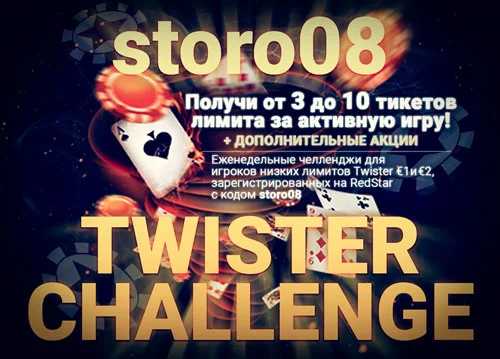
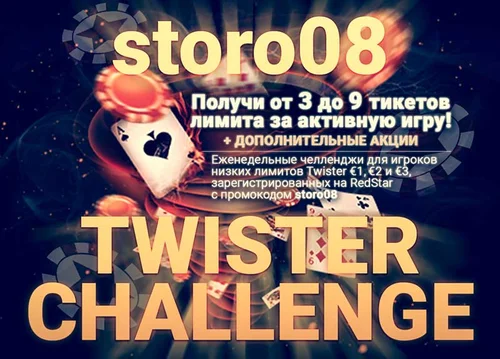
feat: add responsive for header

diff --git a/index.html b/index.html
@@ -17,6 +17,16 @@
     <header>
       <h1 class="logo">RedStar + storo08</h1>
       <div class="header-promo">
+        <p class="header-promo-description">
+          <a
+            class="link"
+            href="https://c.rsppartners.com/clickthrgh?btag=a_9631b_75l_9"
+          >
+            Регистрируйтесь на RedStar</a
+          >
+          с промокодом <span class="strong">storo08</span> и получай
+          <span class="strong">рейкбек до 60%</span>!
+        </p>
         <nav class="navigation">
           <ul class="navigation-list">
             <li class="navigation-item">
@@ -37,17 +47,6 @@
             </li>
           </ul>
         </nav>
-        <p class="header-promo-description">
-          <a
-            class="link"
-            href="https://c.rsppartners.com/clickthrgh?btag=a_9631b_75l_9"
-            target="_blank"
-          >
-            Регистрируйтесь на RedStar</a
-          >
-          с промокодом <span class="strong">storo08</span> и получай
-          <span class="strong">рейкбек до 60%</span>!
-        </p>
       </div>
     </header>
 
@@ -61,7 +60,6 @@
               <a
                 class="link"
                 href="https://c.rsppartners.com/clickthrgh?btag=a_9631b_75l_9"
-                target="_blank"
                 >RedStar Poker</a
               >
               — это один из старейших покер-румов,
@@ -139,7 +137,6 @@
             <a
               class="button large secondary"
               href="https://c.rsppartners.com/clickthrgh?btag=a_9631b_75l_9"
-              target="_blank"
               >Регистрация</a
             >
           </div>
@@ -187,11 +184,20 @@
 
           <div class="rakeback-paragraph">
             <p class="paragraph">
-              Зарегистрируйтесь на RedStar c промокодом storo08 и получите <span class="primary">бонус
-              200% на первый депозит</span>, а также дополнительные бонусы:
-              <span class="primary">ежеквартальные релоад-бонусы</span>, участие в акции <span class="primary">storo08 Race Chase</span>,
-              участие в еженедельных гонках <span class="primary">storo08 Twister Races</span>, участие в
-              еженедельных челленджах <span class="primary">storo08 Twister Challenge</span>, участие в
+              <a
+                class="link"
+                href="https://c.rsppartners.com/clickthrgh?btag=a_9631b_75l_9"
+                >Зарегистрируйтесь на RedStar</a
+              >
+              c промокодом <span class="strong">storo08</span> и получите
+              <span class="primary">бонус 200% на первый депозит</span>, а также
+              дополнительные бонусы:
+              <span class="primary">ежеквартальные релоад-бонусы</span>, участие
+              в акции <span class="primary">storo08 Race Chase</span>, участие в
+              еженедельных гонках
+              <span class="primary">storo08 Twister Races</span>, участие в
+              еженедельных челленджах
+              <span class="primary">storo08 Twister Challenge</span>, участие в
               фрироллах <span class="primary">storo08 HU Challenge</span>.
             </p>
             <p class="paragraph">
@@ -205,7 +211,6 @@
             <a
               class="button large light"
               href="https://c.rsppartners.com/clickthrgh?btag=a_9631b_75l_9"
-              target="_blank"
               >Регистрация</a
             >
           </div>
@@ -241,7 +246,7 @@
               Все призы по акции выплачиваются в течение первой недели
               следующего месяца переводом внутри рума на счёт игрока.
             </p>
-            <a class="button" href="https://storo08.ru/chase/"
+            <a class="button primary" href="https://storo08.ru/chase/"
               >Узнать Выплату</a
             >
           </div>
@@ -262,16 +267,16 @@
             </p>
             <p class="paragraph">
               За месяц дополнительно
-              <span class="primary">разыгрываются билеты на €5000</span>!
+              <span class="primary">разыгрываются билеты на €5200</span>!
               Призовые каждой недели распределяются среди участников, которые
-              смогли войти в Top 55 приватной гонки.
+              смогли войти в Top 65 приватной гонки.
             </p>
             <p class="paragraph">
               Действует акция! Участники, набравшие 50K очков за неделю,
               получают дополнительный билет Twister €50, за 100K очков — два
               билета Twister €50.
             </p>
-            <a class="button" href="https://storo08.ru/twister-races/">
+            <a class="button primary" href="https://storo08.ru/twister-races/">
               Лидерборд
             </a>
           </div>
@@ -287,15 +292,16 @@
             <p class="paragraph">
               Еженедельные
               <span class="primary"
-                >челленджи для игроков низких лимитов €1 и €2 твистеров</span
+                >челленджи для игроков низких лимитов €1, €2 и €3
+                твистеров</span
               >
               на RedStar! Акция создана специально для игроков низких лимитов,
               которым тяжело попасть в призы Twister Races.
             </p>
             <p class="paragraph">
-              Сыграйте не менее 500 твистеров за неделю на лимите €1 или €2 и
-              получите 3 тикета своего лимита, 900 твистеров — 6 тикетов, 1400
-              твистеров — 10 тикетов.
+              Сыграйте не менее 500 твистеров за неделю на лимите €1, €2 или €3
+              и получите 3 тикета своего лимита, 900 твистеров — 5 тикетов, 1400
+              твистеров — 9 тикетов.
             </p>
             <p class="paragraph">
               К участию допускаются только игроки, зарегистрированные на RedStar
@@ -303,7 +309,7 @@
               заявку.
             </p>
             <a
-              class="button"
+              class="button primary"
               href="https://www.vigorish.ru/section84/topic13421.html"
             >
               Оставить заявку
@@ -337,7 +343,7 @@
               перед турнирами.
             </p>
             <a
-              class="button"
+              class="button primary"
               href="https://www.vigorish.ru/section84/topic13421.html"
               >Расписание</a
             >

diff --git a/styles/index.css b/styles/index.css
@@ -25,11 +25,12 @@ body {
   display: flex;
   flex-direction: column;
   background-color: var(--background-color);
+  overflow-x: hidden;
 }
 
 header {
   position: relative;
-  padding: 2em 0;
+  padding: 2em;
   display: flex;
   justify-content: space-around;
   align-items: center;
@@ -64,10 +65,14 @@ header::after {
 }
 
 .logo {
+  padding: 0.25em 0.5em;
+  border-radius: 0.25em;
   font-size: 3em;
   font-weight: 700;
   line-height: 0.75em;
+  white-space: nowrap;
   color: var(--background-color);
+  background-color: var(--primary-color);
   transform: skew(-15deg);
   z-index: 1000;
 }
@@ -77,48 +82,45 @@ header::after {
   flex-direction: column;
 }
 
-.navigation {
-  margin-left: auto;
+.header-promo-description {
+  max-width: 800px;
+  margin: 1em auto;
+  text-align: center;
+  font-size: 2em;
+  color: var(--background-color);
+  transform: skew(-15deg);
+}
+
+.header-promo-description .link {
+  background-color: var(--secondary-color);
 }
 
 .navigation-list {
   list-style: none;
   padding-left: 0;
   display: flex;
+  flex-wrap: wrap;
+  justify-content: space-around;
 }
 
-.navigation-item:not(:last-child) {
-  position: relative;
-  margin-right: 2em;
-}
-
-.navigation-item:not(:last-child)::before {
-  position: absolute;
-  content: '';
-  top: 0;
-  right: -1.1em;
-  height: 1.75em;
-  border-right: 0.2em solid var(--primary-color);
+.navigation-item {
+  margin: 1em;
   transform: skew(-15deg);
+  z-index: 1000;
 }
 
 .navigation-link {
+  padding: 0.25em 0.5em;
+  color: var(--background-color);
+  background-color: var(--background-color-50);
+  border-radius: 0.25em;
   font-size: 1.5em;
   font-weight: 700;
-  text-decoration: none;
-  color: var(--background-color);
   transition: ease-in-out 0.2s;
 }
 
 .navigation-link:hover {
-  color: var(--primary-color);
-}
-
-.header-promo-description {
-  margin: 0;
-  font-size: 1.5em;
-  color: var(--background-color);
-  transform: skew(-15deg);
+  background-color: var(--primary-color);
 }
 
 .link,
@@ -306,6 +308,7 @@ section {
   background-color: var(--secondary-color);
 }
 
+.button.primary:hover,
 .button.secondary:hover {
   color: var(--primary-color);
   background-color: var(--background-color);
@@ -331,6 +334,34 @@ section {
   background-blend-mode: multiply;
 }
 
+.section-rakeback::before {
+  position: absolute;
+  content: '';
+  top: -60px;
+  left: 0;
+  width: 100px;
+  height: 236px;
+  transform: rotate(-180deg);
+  background: url(../assets/images/chip_right_100x236.webp);
+  background-position: left;
+  background-repeat: no-repeat;
+  background-size: contain;
+}
+
+.section-rakeback::after {
+  position: absolute;
+  content: '';
+  top: 100px;
+  right: -60px;
+  width: 171px;
+  height: 278px;
+  transform: rotate(-180deg);
+  background: url(../assets/images/chip_left_171x278.webp);
+  background-position: left;
+  background-repeat: no-repeat;
+  background-size: contain;
+}
+
 .rakeback-item {
   width: 100%;
   margin: 0.5em 1em;
@@ -340,6 +371,7 @@ section {
   border-radius: 1em;
   background-color: var(--primary-color-50);
   transition: ease-in-out 0.25s;
+  z-index: 1500;
 }
 
 .rakeback-item:hover {
@@ -452,8 +484,8 @@ section {
   font-weight: 700;
   letter-spacing: 0.25em;
   text-transform: uppercase;
-  color: var(--background-color);
-  background-color: var(--secondary-color);
+  color: var(--secondary-color);
+  background-color: var(--background-color-50);
   border-radius: 0.25em;
   transform: skew(-15deg);
 }
@@ -465,4 +497,70 @@ section {
 .promo .paragraph:nth-child(6) {
   margin-bottom: 0;
   border: none;
+}
+
+@media (max-width: 1524px) {
+  header {
+    flex-direction: column;
+  }
+
+  .logo {
+    margin-left: auto;
+  }
+
+  .navigation-list {
+    justify-content: center;
+  }
+
+  .navigation-item {
+    min-width: 45%;
+  }
+
+  .navigation-link {
+    display: inline-block;
+    width: 100%;
+    text-align: center;
+  }
+}
+
+@media (max-width: 860px) {
+  header {
+    flex-direction: column;
+  }
+
+  .logo {
+    margin-right: auto;
+  }
+
+  .navigation-list {
+    flex-direction: column;
+  }
+
+  .navigation-item {
+    min-width: 45%;
+  }
+
+  .navigation-link {
+    display: inline-block;
+    width: 100%;
+    text-align: center;
+  }
+}
+
+@media (max-width: 600px) {
+  .logo {
+    font-size: 1.5em;
+  }
+
+  .header-promo-description {
+    font-size: 1.5em;
+  }
+
+  .navigation-item {
+    margin: 0.5em;
+  }
+
+  .navigation-link {
+    font-size: 1em;
+  }
 }
